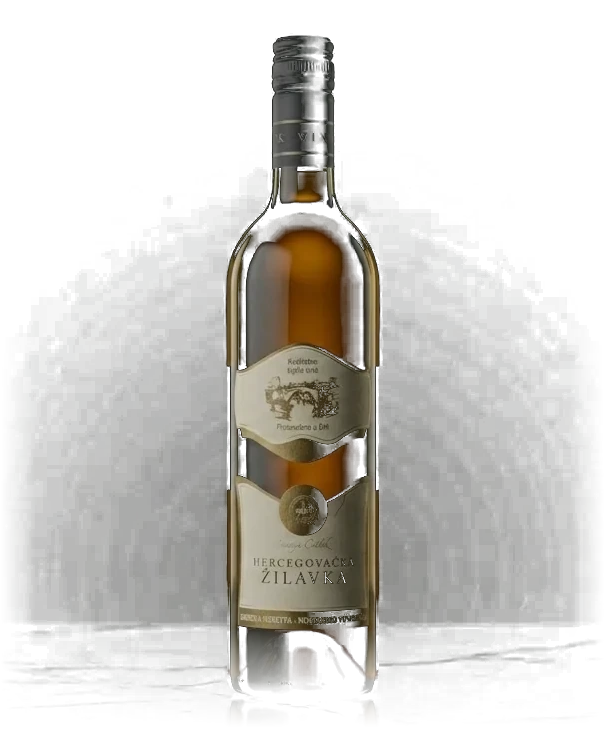
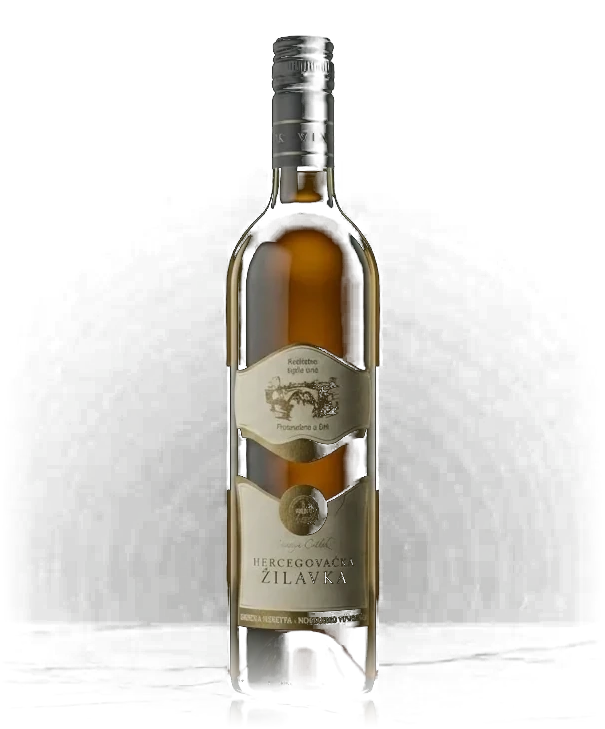
Clean the bottle of added light, drop the redundant watermark, fix the button
Three things reported from the phone, plus the consistency pass they
prompted.

The bottles still looked processed. Two causes, both mine. The alpha
ramp bent below 1, which lifted the faint studio halo along with the
bottle and gave the glass a glow it never had in the photograph — the
curve now bends above 1, so the halo drops to about a fifth while the
bottle stays solid. And the stage was throwing coloured light onto the
subject: the blurred backdrop ran at half opacity and the warm pool at
full, so both are pulled well back. The stage is lit; the bottle is not.
The painted reflection under the bottle is gone too — the photograph
already contains its own, and the two sat at slightly different angles.

"Tvrdoš Vranac" under a giant VRANAC was the page saying one word twice
in a single glance. The watermark is the vintage where we know it, the
variety only when the name does not already contain it, and nothing at
all otherwise — eight of the thirteen wines now show none, which is the
honest outcome rather than a filler.

The add button was a fixed slab with its icon off-centre. Cause: a
styles.css rule caps every .btn at 280px on phones, written for the
homepage hero where buttons stack, and it was landing on a button inside
a flex bar. Both product-page buttons now size to their content and
centre it explicitly.

Consistency pass, since the same journey was speaking two languages:
"lista" became "korpa" everywhere including the homepage and its English
[…]

diff --git a/script.js b/script.js
@@ -51,13 +51,15 @@ function tag2Chip(wine, lang) {
     + '<span class="wf-icon wf-icon--mini">' + GROUP_ICON + '</span>' + wine.tag2[lang] + '</span>';
 }
 
-// The same basket drawn in the header, so the two read as one action.
+// The same trolley the header and the product page use. It was a shopping
+// bag here and a trolley there, which put two glyphs for one basket on the
+// same journey — the trolley wins because it is the one people read as "buy"
+// without looking.
 const CART_ICON =
   '<svg width="21" height="21" viewBox="0 0 24 24" fill="none" stroke="currentColor" '
-  + 'stroke-width="1.8" aria-hidden="true" focusable="false">'
-  + '<path d="M6 2L3 6v14a2 2 0 002 2h14a2 2 0 002-2V6l-3-4z"/>'
-  + '<line x1="3" y1="6" x2="21" y2="6"/>'
-  + '<path d="M16 10a4 4 0 01-8 0"/>'
+  + 'stroke-width="1.7" stroke-linecap="round" stroke-linejoin="round" aria-hidden="true" focusable="false">'
+  + '<circle cx="9" cy="20" r="1.6"/><circle cx="18" cy="20" r="1.6"/>'
+  + '<path d="M1.5 2h2.6l2.5 12.1a1.8 1.8 0 001.8 1.4h8.9a1.8 1.8 0 001.8-1.4L21 6H5.2"/>'
   + '</svg>';
 
 // A cart still sitting there the next day reads as a glitch, not a courtesy.
@@ -178,7 +180,7 @@ function renderWines() {
   // A lone card keeps the rail's 82% peek width and leaves a wide band of
   // empty page beside it, which reads as broken rather than as a short list.
   grid.classList.toggle('wines-grid--single', list.length === 1);
-  const addLabel = currentLang === 'sr' ? 'Dodaj u listu' : 'Add to list';
+  const addLabel = currentLang === 'sr' ? 'Dodaj u korpu' : 'Add to cart';
   const moreLabel = currentLang === 'sr' ? 'Prikaži detalje' : 'Show details';
   grid.innerHTML = list.map(wine => `
     <div class="wine-card fade-up" data-wine-page="${wineHref(wine.id)}">
@@ -227,7 +229,7 @@ function renderBundles() {
       ? '<div class="bundle-top-badge">' + (isSr ? 'Najpopularnije' : 'Most popular') + '</div>'
       : '';
     const countLabel = bundle.count + (isSr ? (bundle.count >= 5 ? ' flaša' : ' flaše') : ' btl.');
-    const btnLabel = isSr ? 'Dodaj paket u listu' : 'Add bundle to list';
+    const btnLabel = isSr ? 'Dodaj paket u korpu' : 'Add bundle to cart';
     const moreLabel = isSr ? 'Prikaži detalje' : 'Show details';
     return [
       '<div class="wine-card ' + bundle.id + featured + ' fade-up">',
@@ -278,7 +280,7 @@ function addBundleToCart(bundleId) {
   }
   saveCart();
   renderCart();
-  showToast(currentLang === 'sr' ? `${bundle.name.sr} dodat u listu` : `${bundle.name.en} added to list`);
+  showToast(currentLang === 'sr' ? `${bundle.name.sr} dodat u korpu` : `${bundle.name.en} added to cart`);
   const cartBtn = document.getElementById('cartBtn');
   cartBtn.classList.remove('cart-pulse');
   void cartBtn.offsetWidth;
@@ -298,7 +300,7 @@ function addToCart(id) {
   saveCart();
   renderCart();
   const wine = WINES.find(w => w.id === id);
-  showToast(currentLang === 'sr' ? `${wine.name.sr} dodato u listu` : `${wine.name.en} added to list`);
+  showToast(currentLang === 'sr' ? `${wine.name.sr} dodato u korpu` : `${wine.name.en} added to cart`);
   const cartBtn = document.getElementById('cartBtn');
   cartBtn.classList.remove('cart-pulse');
   void cartBtn.offsetWidth;
@@ -364,7 +366,7 @@ function renderCart() {
   const footerEl = document.getElementById('cartFooter');
   updateCartCount();
   if (cart.length === 0) {
-    itemsEl.innerHTML = `<p class="cart-empty">${currentLang === 'sr' ? 'Lista je prazna' : 'Your list is empty'}</p>`;
+    itemsEl.innerHTML = `<p class="cart-empty">${currentLang === 'sr' ? 'Korpa je prazna' : 'Your cart is empty'}</p>`;
     footerEl.style.display = 'none';
     return;
   }
@@ -533,8 +535,8 @@ function openDetail(id) {
   // The button shows only the cart, so the words live in its accessible name —
   // setting textContent here would replace the icon with them.
   document.getElementById('detailAdd').setAttribute('aria-label', wine
-    ? (isSr ? 'Dodaj u listu' : 'Add to list')
-    : (isSr ? 'Dodaj paket u listu' : 'Add bundle to list'));
+    ? (isSr ? 'Dodaj u korpu' : 'Add to cart')
+    : (isSr ? 'Dodaj paket u korpu' : 'Add bundle to cart'));
 
   setPanelOpen('wineDetail', true);
   document.getElementById('detailClose').focus();
@@ -591,7 +593,7 @@ function setCartOpen(open) {
 
 function openCheckout() {
   if (cart.length === 0) {
-    showToast(currentLang === 'sr' ? 'Lista je prazna' : 'Your list is empty', false);
+    showToast(currentLang === 'sr' ? 'Korpa je prazna' : 'Your cart is empty', false);
     return;
   }
   document.getElementById('checkoutStep1').style.display = 'block';
@@ -926,6 +928,15 @@ document.addEventListener('DOMContentLoaded', () => {
   renderCart();
   initDetail();
   switchLanguage(currentLang);
+
+  // A product page has no checkout of its own, so its cart panel sends people
+  // back here with ?korpa=1 and the panel opens on arrival. Without this the
+  // button said "continue to reservation" and quietly dropped them at the top
+  // of the wine list with their cart closed.
+  if (new URLSearchParams(location.search).get('korpa') === '1') {
+    setCartOpen(true);
+    history.replaceState(null, '', location.pathname + location.hash);
+  }
   observeFadeElements();
   createHeroParticles();
   animateCounters();

diff --git a/vino.css b/vino.css
@@ -124,16 +124,16 @@
   padding: 132px 0 96px;
 }
 
-/* The bottle photo again, blown far out of focus. It gives the stage the
-   wine's own colour — a Vranac page glows differently from a Žilavka page —
-   without any of it reading as a second image. */
+/* The bottle photo again, blown far out of focus, giving the stage a trace
+   of the wine's own colour. Held well back: at half opacity it tinted the
+   bottle in front of it, which is exactly what it must not do. */
 .wp-hero-bg {
   position: absolute;
   inset: -18%;
   background-size: cover;
   background-position: center;
-  filter: blur(80px) saturate(1.5);
-  opacity: 0.5;
+  filter: blur(96px) saturate(1.15);
+  opacity: 0.26;
   transform: scale(1.2);
   pointer-events: none;
 }
@@ -149,8 +149,10 @@
   z-index: 1;
 }
 
-/* A single warm pool of light behind where the bottle stands, so the bottle
-   looks lit rather than pasted. */
+/* A pool of light behind where the bottle stands, kept faint on purpose.
+   At full strength it washed warm colour across the glass itself, so the
+   photograph stopped looking like a photograph — the stage should be lit,
+   not the bottle. */
 .wp-hero-glow {
   position: absolute;
   left: 20%;
@@ -161,9 +163,9 @@
   max-height: 620px;
   transform: translate(-50%, -50%);
   background: radial-gradient(circle,
-    rgba(201, 169, 97, 0.2) 0%,
-    rgba(139, 32, 53, 0.14) 38%,
-    rgba(31, 5, 8, 0) 68%);
+    rgba(201, 169, 97, 0.085) 0%,
+    rgba(139, 32, 53, 0.05) 40%,
+    rgba(31, 5, 8, 0) 70%);
   z-index: 2;
   pointer-events: none;
 }
@@ -256,18 +258,10 @@
   pointer-events: none;
 }
 
-.wp-reflection {
-  position: absolute;
-  z-index: 1;
-  left: 50%;
-  bottom: 6%;
-  width: 46%;
-  height: 26px;
-  transform: translateX(-50%);
-  background: radial-gradient(ellipse at center,
-    rgba(201, 169, 97, 0.2) 0%, rgba(201, 169, 97, 0) 70%);
-  pointer-events: none;
-}
+/* The photograph already contains the bottle's reflection on the studio
+   floor, and the cut-out keeps it. A second painted one underneath was two
+   reflections at slightly different angles. */
+.wp-reflection { display: none; }
 
 /* ----------------------------------------------------------- the words */
 .wp-intro { position: relative; }
@@ -1124,4 +1118,35 @@
   .wp-hero-parallax .wp-stage,
   .wp-hero-parallax .wp-ghost { transform: none !important; opacity: 1 !important; }
   .wp-cue-line::after { animation: none; }
+}
+
+/* ===================================================== consistency pass */
+
+/* styles.css caps every .btn at 280px wide on phones — a rule written for
+   the homepage hero, where the buttons stack. Inherited here it made the
+   sticky bar's button a fixed slab narrower than its own bar, and left its
+   icon and label sitting off-centre inside it. Both product-page buttons
+   size to their own content and centre it explicitly. */
+.wp-add,
+.wp-sticky-btn {
+  display: inline-flex;
+  align-items: center;
+  justify-content: center;
+  gap: 11px;
+  width: auto;
+  max-width: none;
+}
+
+.wp-sticky-inner { gap: 16px; }
+
+.wp-sticky-info { flex: 1 1 auto; min-width: 0; }
+
+.wp-sticky-btn { flex: 0 0 auto; }
+
+@media (max-width: 768px) {
+  .wp-add { width: 100%; }
+  .wp-sticky-btn { padding: 13px 22px; }
+  /* The name is the first thing to give up room — the price and the button
+     are what the bar is for. */
+  .wp-sticky-name { font-size: 0.8rem; }
 }

diff --git a/index.html b/index.html
@@ -65,11 +65,10 @@
         <button type="button" class="lang-toggle" id="langToggle" style="display:none;">
           <span class="lang-active">SR</span> / <span>EN</span>
         </button>
-        <button type="button" class="cart-btn" id="cartBtn" aria-label="Cart">
-          <svg width="24" height="24" viewBox="0 0 24 24" fill="none" stroke="currentColor" stroke-width="2">
-            <path d="M6 2L3 6v14a2 2 0 002 2h14a2 2 0 002-2V6l-3-4z"/>
-            <line x1="3" y1="6" x2="21" y2="6"/>
-            <path d="M16 10a4 4 0 01-8 0"/>
+        <button type="button" class="cart-btn" id="cartBtn" aria-label="Korpa">
+          <svg width="23" height="23" viewBox="0 0 24 24" fill="none" stroke="currentColor" stroke-width="1.7" stroke-linecap="round" stroke-linejoin="round">
+            <circle cx="9" cy="20" r="1.6"/><circle cx="18" cy="20" r="1.6"/>
+            <path d="M1.5 2h2.6l2.5 12.1a1.8 1.8 0 001.8 1.4h8.9a1.8 1.8 0 001.8-1.4L21 6H5.2"/>
           </svg>
           <span class="cart-count" id="cartCount">0</span>
         </button>
@@ -368,13 +367,13 @@
   </footer>
 
   <div class="cart-overlay" id="cartOverlay"></div>
-  <aside class="cart-sidebar" id="cartSidebar" aria-label="Lista za rezervaciju" inert>
+  <aside class="cart-sidebar" id="cartSidebar" aria-label="Korpa" inert>
     <div class="cart-header">
-      <h3 data-sr="Lista za rezervaciju" data-en="Reservation List">Lista za rezervaciju</h3>
+      <h3 data-sr="Korpa" data-en="Reservation List">Korpa</h3>
       <button type="button" class="cart-close" id="cartClose">&times;</button>
     </div>
     <div class="cart-items" id="cartItems">
-      <p class="cart-empty" data-sr="Lista je prazna" data-en="Your list is empty">Lista je prazna</p>
+      <p class="cart-empty" data-sr="Korpa je prazna" data-en="Your cart is empty">Korpa je prazna</p>
     </div>
     <div class="cart-footer" id="cartFooter" style="display:none;">
       <div class="cart-total">
@@ -468,7 +467,7 @@
             <span class="wine-price" id="detailPrice"></span>
             <span class="wine-volume" id="detailVol"></span>
           </div>
-          <button type="button" class="btn btn-primary btn-full detail-add" id="detailAdd" aria-label="Dodaj u listu">
+          <button type="button" class="btn btn-primary btn-full detail-add" id="detailAdd" aria-label="Dodaj u korpu">
             <svg width="22" height="22" viewBox="0 0 24 24" fill="none" stroke="currentColor" stroke-width="1.8" aria-hidden="true" focusable="false">
               <path d="M6 2L3 6v14a2 2 0 002 2h14a2 2 0 002-2V6l-3-4z"/>
               <line x1="3" y1="6" x2="21" y2="6"/>
@@ -538,6 +537,6 @@
   </script>
 
   <script src="data.js?v=1"></script>
-  <script src="script.js?v=95"></script>
+  <script src="script.js?v=96"></script>
 </body>
 </html>

diff --git a/vino.html b/vino.html
@@ -30,7 +30,7 @@
       href="https://fonts.googleapis.com/css2?family=Cinzel:wght@400;600;700;900&family=Cormorant+Garamond:ital,wght@0,300;0,400;0,500;0,600;0,700;1,400;1,500;1,600&family=Lato:wght@300;400;700&display=swap">
   </noscript>
   <link rel="stylesheet" href="styles.css?v=116">
-  <link rel="stylesheet" href="vino.css?v=7">
+  <link rel="stylesheet" href="vino.css?v=8">
 
   <!-- Microsoft Clarity: session recordings and click heatmaps, project "Hercz Wines". -->
   <script type="text/javascript">
@@ -57,11 +57,10 @@
         <li><a href="index.html#contact" data-sr="Kontakt" data-en="Contact">Kontakt</a></li>
       </ul>
       <div class="nav-actions">
-        <button type="button" class="cart-btn" id="cartBtn" aria-label="Cart">
-          <svg width="24" height="24" viewBox="0 0 24 24" fill="none" stroke="currentColor" stroke-width="2">
-            <path d="M6 2L3 6v14a2 2 0 002 2h14a2 2 0 002-2V6l-3-4z"/>
-            <line x1="3" y1="6" x2="21" y2="6"/>
-            <path d="M16 10a4 4 0 01-8 0"/>
+        <button type="button" class="cart-btn" id="cartBtn" aria-label="Korpa">
+          <svg width="23" height="23" viewBox="0 0 24 24" fill="none" stroke="currentColor" stroke-width="1.7" stroke-linecap="round" stroke-linejoin="round">
+            <circle cx="9" cy="20" r="1.6"/><circle cx="18" cy="20" r="1.6"/>
+            <path d="M1.5 2h2.6l2.5 12.1a1.8 1.8 0 001.8 1.4h8.9a1.8 1.8 0 001.8-1.4L21 6H5.2"/>
           </svg>
           <span class="cart-count" id="cartCount">0</span>
         </button>
@@ -343,7 +342,7 @@
         <span>Ukupno</span>
         <span id="cartTotal">0 RSD</span>
       </div>
-      <a href="index.html#wines" class="btn btn-primary cart-checkout-link">Nastavi na rezervaciju</a>
+      <a href="index.html?korpa=1#wines" class="btn btn-primary cart-checkout-link">Nastavi na rezervaciju</a>
     </div>
   </aside>
 
@@ -360,6 +359,6 @@
 
   <script src="data.js?v=1"></script>
   <script src="wine-details.js?v=1"></script>
-  <script src="vino.js?v=7"></script>
+  <script src="vino.js?v=8"></script>
 </body>
 </html>

diff --git a/vino.js b/vino.js
@@ -353,8 +353,16 @@ function render(wine, detail) {
   // while "Žilavka" ran out from under the bottle and across the text column.
   // Sized from the character count instead, so every wine fills the same
   // width whatever its watermark says.
+  // The watermark is the vintage where we know it. Where we do not, the
+  // variety stands in — but only when it is not already in the wine's name.
+  // "Tvrdoš Vranac" under a giant VRANAC was the page saying the same word
+  // twice in the same glance, which is worse than saying nothing, so in that
+  // case the watermark is simply left out.
   const ghost = document.getElementById('wpGhost');
-  const ghostText = detail.vintage || variety.name.sr;
+  const nameHasVariety = wine.name.sr.toLowerCase()
+    .includes(variety.name.sr.toLowerCase());
+  const ghostText = detail.vintage || (nameHasVariety ? '' : variety.name.sr);
+  ghost.hidden = !ghostText;
   ghost.textContent = ghostText;
   // Narrow screens give the watermark the bottle's width rather than half a
   // page, so it is sized against the viewport it is actually in.

diff --git a/tools-cutout.py b/tools-cutout.py
@@ -26,7 +26,7 @@ from PIL import Image
 CENTRE, HALF_W = 0.50, 0.22
 TOP, BOTTOM = 0.02, 0.97
 
-def cutout(src, dst, gain=1.45, gamma=0.88, solid_at=70, dim=0.84):
+def cutout(src, dst, gain=1.5, gamma=1.4, solid_at=58, dim=0.88):
     im = Image.open(src).convert('RGB')
     a = np.asarray(im).astype(np.float32)
     lum = 0.299*a[:,:,0] + 0.587*a[:,:,1] + 0.114*a[:,:,2]
